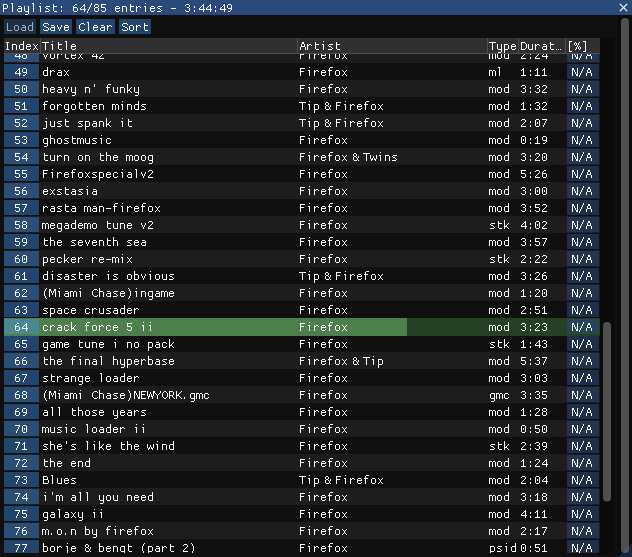
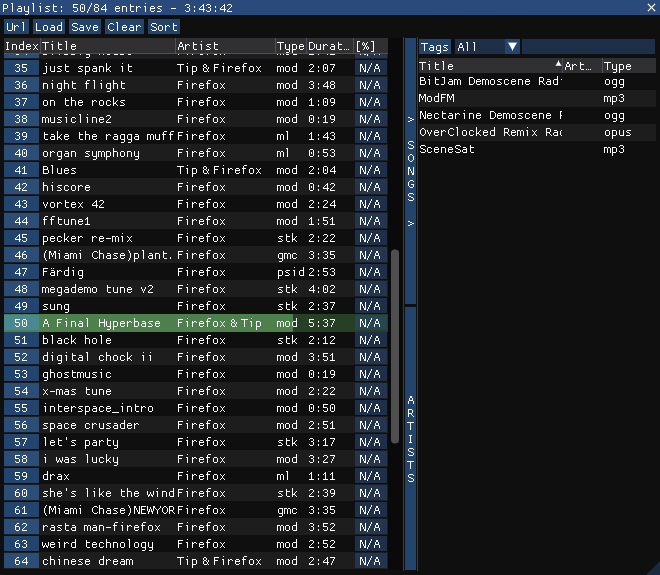
replayer: bump version to 0.12.3

diff --git a/source/RePlayer/Version.h b/source/RePlayer/Version.h
@@ -2,7 +2,7 @@
 
 #define REPLAYER_VERSION_MAJOR 0
 #define REPLAYER_VERSION_MINOR 12
-#define REPLAYER_VERSION_PATCH 2
+#define REPLAYER_VERSION_PATCH 3
 
 #define VER_STRINGIZE(x) #x
 #define VER_STR(x) VER_STRINGIZE(x)

diff --git a/README.md b/README.md
@@ -104,9 +104,10 @@ For some players, you can edit the song length. For that you can simply enter th
 Add songs from the library here (from the library context menu, or drag and drop a selection from the library there).  
 Or add songs from you disk drive (drag and drop).  
 You can select the songs and reorder these. Click on the numbered button to track the song in its database (library/playlist).  
+An Url button to add a list of links to the playlist.  
 Buttons to load, save or clear the playlist.  
 And a button to sort (by type, artists, duration, type or random/shuffle).  
-Note 1: if you drag and drop files in there, the playlist will have a sidebar with buttons which open a database like the library managing all these files. It's almost working the same way as the library.  
+Note 1: if you drag and drop files in there, the playlist will have a sidebar with buttons which open a database like the library managing all these files and urls. It's almost working the same way as the library.  
 Note 2: while drag and dropping files, keep Ctrl pressed to force all files in the playlist (by default, they are filtered by their extension or prefix). Keep Shift pressed and the current playlist is cleared. You can also drop on the deck.  
 Note 3: you can drag and drop url. On load, it will download the song or stream the online radio.
 

diff --git a/CHANGELOG.md b/CHANGELOG.md
@@ -1,8 +1,9 @@
-v0.12.2:
+v0.12.3:
 - Added Advanced Audio Coding
 - Added Opus
 - Updated adplug to 2.3.3.818
 - Updated ASAP to 6.0.1
+- Updated gbsplay to 0.0.95
 - Updated libsc68 to 3.0.0a r705
 - Updated libsidplay to 2.6.0
 - Updated UADE with Jochen Hippel ST player 1.3
@@ -11,7 +12,7 @@ v0.12.2:
 - Updated ImGui to 1.90.1
 - Updated TagLib to 2.0
 - Updated TinyXML-2 to 10.0.0
-- Ability to play directly from an URL (drag and drop from the browser), including streaming (online radios)
+- Ability to play directly from an URL (drag and drop from the browser or import), including streaming (online radios)
 - Bug fixes
 
 v0.11.1:
